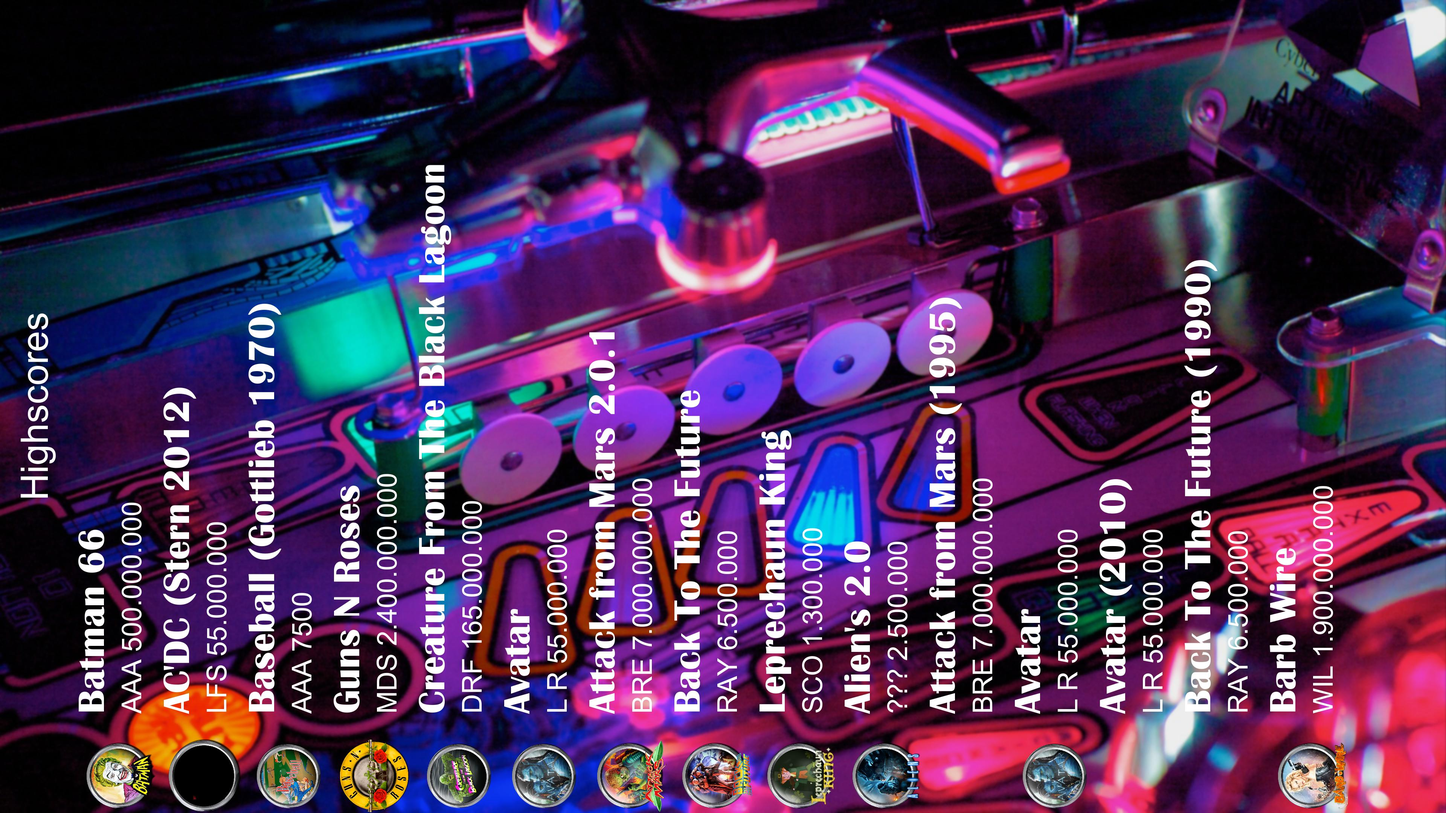
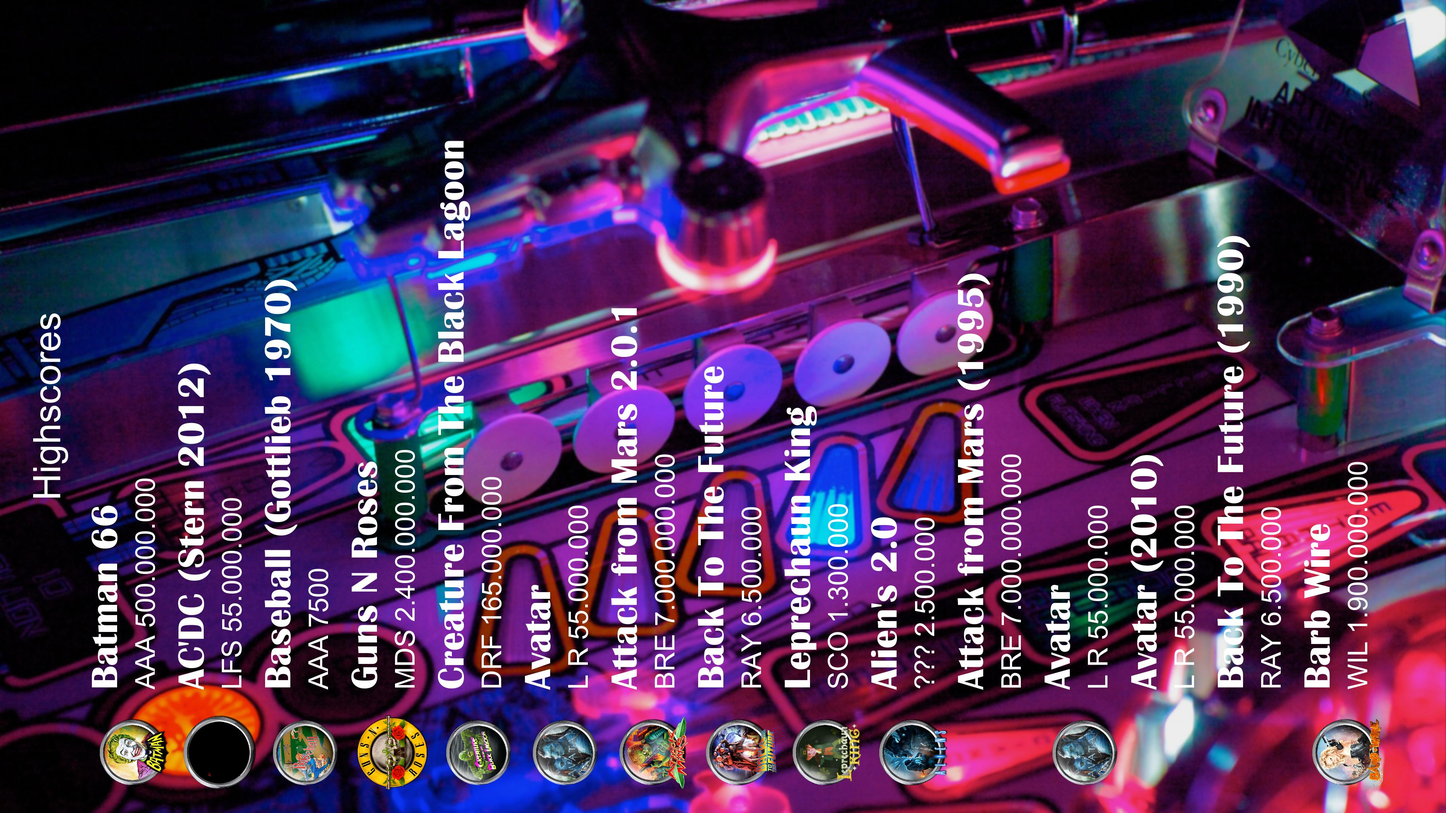
Overlay design

Changed region(s): [[0.0312, 0.1861, 0.9688, 1.0], [0.0, 0.3722, 0.0625, 0.6204]]

diff --git a/vpin-studio-server/src/main/java/de/mephisto/vpin/server/overlay/OverlayGraphics.java b/vpin-studio-server/src/main/java/de/mephisto/vpin/server/overlay/OverlayGraphics.java
@@ -2,13 +2,11 @@ package de.mephisto.vpin.server.overlay;
 
 import de.mephisto.vpin.server.games.Game;
 import de.mephisto.vpin.server.games.GameService;
-import de.mephisto.vpin.server.highscores.Highscore;
 import de.mephisto.vpin.server.highscores.HighscoreService;
 import de.mephisto.vpin.server.highscores.Score;
 import de.mephisto.vpin.server.popper.PopperScreen;
 import de.mephisto.vpin.server.util.Config;
 import de.mephisto.vpin.server.util.ImageUtil;
-import javafx.scene.text.FontPosture;
 import org.slf4j.Logger;
 import org.slf4j.LoggerFactory;
 
@@ -23,8 +21,7 @@ import java.util.stream.Collectors;
 public class OverlayGraphics {
   private final static Logger LOG = LoggerFactory.getLogger(OverlayGraphics.class);
 
-  private final String HIGHSCORE_TEXT = Config.getOverlayGeneratorConfig().getString("overlay.highscores.text", "Highscores");
-  private final String TITLE_TEXT = Config.getOverlayGeneratorConfig().getString("overlay.title.text", "bubu");
+  private final String TITLE_TEXT = Config.getOverlayGeneratorConfig().getString("overlay.title.text", "Highscores");
 
   private final String SCORE_FONT_NAME = Config.getOverlayGeneratorConfig().getString("overlay.score.font.name", "Arial");
   private final int SCORE_FONT_STYLE = ImageUtil.convertFontPosture(Config.getOverlayGeneratorConfig().getString("overlay.score.font.style"));
@@ -40,22 +37,20 @@ public class OverlayGraphics {
 
   private final int PADDING = Config.getOverlayGeneratorConfig().getInt("overlay.padding");
   private final int ROW_SEPARATOR = Config.getOverlayGeneratorConfig().getInt("overlay.highscores.row.separator");
-  private final int ROW_PADDING_LEFT = Config.getOverlayGeneratorConfig().getInt("overlay.highscores.row.padding.left");
   private final int ROW_HEIGHT = TABLE_FONT_SIZE + ROW_SEPARATOR + SCORE_FONT_SIZE;
 
   private final int BLUR_PIXELS = Config.getOverlayGeneratorConfig().getInt("overlay.blur");
 
   private final String BACKGROUND_IMAGE_NAME = Config.getOverlayGeneratorConfig().getString("overlay.background");
   private final String FONT_COLOR = Config.getOverlayGeneratorConfig().getString("overlay.font.color", "#FFFFFF");
+  private final String RESOLUTION = Config.getOverlayGeneratorConfig().getString("overlay.resolution", "2560x1440");
 
   private final OverlayService overlayService;
   private final GameService service;
-  private final HighscoreService highscoreService;
 
   public OverlayGraphics(OverlayService overlayService, GameService service, HighscoreService highscoreService) {
     this.overlayService = overlayService;
     this.service = service;
-    this.highscoreService = highscoreService;
   }
 
   public BufferedImage draw() throws Exception {
@@ -81,6 +76,11 @@ public class OverlayGraphics {
     }
 
     BufferedImage backgroundImage = ImageUtil.loadImage(sourceImage);
+    int targetWidth = Integer.parseInt(RESOLUTION.split("x")[0]);
+    if(backgroundImage.getWidth() > targetWidth) {
+      backgroundImage = ImageUtil.resizeImage(backgroundImage, targetWidth);
+    }
+
     BufferedImage rotated = ImageUtil.rotateRight(backgroundImage);
     if (BLUR_PIXELS > 0) {
       rotated = ImageUtil.blurImage(rotated, BLUR_PIXELS);
@@ -97,93 +97,14 @@ public class OverlayGraphics {
     return ImageUtil.rotateLeft(rotated);
   }
 
-  /**
-   * The upper section, usually with the three topscores.
-   */
-  private int renderTableChallenge(BufferedImage image, Game challengedGame) throws Exception {
-    Highscore highscore = highscoreService.getHighscore(challengedGame);
+  private void renderHighscoreList(BufferedImage image, int highscoreListYOffset) throws Exception {
     Graphics g = image.getGraphics();
     ImageUtil.setDefaultColor(g, FONT_COLOR);
     int imageWidth = image.getWidth();
-
-    g.setFont(new Font(TITLE_FONT_NAME, TITLE_FONT_STYLE, TITLE_FONT_SIZE));
-
-    String title = TITLE_TEXT;
-    int titleWidth = g.getFontMetrics().stringWidth(title);
-    int titleY = ROW_SEPARATOR + TITLE_FONT_SIZE + PADDING;
-    g.drawString(title, imageWidth / 2 - titleWidth / 2, titleY);
-
-    g.setFont(new Font(TABLE_FONT_NAME, TABLE_FONT_STYLE, TABLE_FONT_SIZE));
-    String challengedTable = challengedGame.getGameDisplayName();
-    int width = g.getFontMetrics().stringWidth(challengedTable);
-
-
-    int tableNameY = titleY + (2 * ROW_SEPARATOR) + TITLE_FONT_SIZE;
-    g.drawString(challengedTable, imageWidth / 2 - width / 2, tableNameY);
-
-    g.setFont(new Font(SCORE_FONT_NAME, SCORE_FONT_STYLE, SCORE_FONT_SIZE));
-
-    int count = 0;
-    int scoreWidth = 0;
-
-
-    List<String> scores = new ArrayList<>();
-    if (highscore != null) {
-//      for (Score score : highscore.toScores()) {
-//        String scoreString = score.getPosition() + ". " + score.getUserInitials() + " " + score.getScore();
-//        scores.add(scoreString);
-//
-//        int singleScoreWidth = g.getFontMetrics().stringWidth(scoreString);
-//        if (scoreWidth < singleScoreWidth) {
-//          scoreWidth = singleScoreWidth;
-//        }
-//        count++;
-//        if (count == 3) {
-//          break;
-//        }
-//      }
-    }
-    else {
-      for (int i = 1; i <= 3; i++) {
-        String scoreString = i + ". ??? 000.000.000";
-        int singleScoreWidth = g.getFontMetrics().stringWidth(scoreString);
-        if (scoreWidth < singleScoreWidth) {
-          scoreWidth = singleScoreWidth;
-        }
-        scores.add(scoreString);
-      }
-    }
-
-    int position = 0;
-    int wheelWidth = (3 * SCORE_FONT_SIZE) + (3 * ROW_SEPARATOR);
-    int totalScoreAndWheelWidth = scoreWidth + wheelWidth;
-
-    tableNameY = tableNameY + ROW_SEPARATOR;
-    for (String score : scores) {
-      position++;
-      int scoreY = tableNameY + (position * SCORE_FONT_SIZE) + (position * ROW_SEPARATOR);
-      g.drawString(score, imageWidth / 2 - totalScoreAndWheelWidth / 2 + wheelWidth + ROW_SEPARATOR, scoreY);
-    }
-
-    File wheelIconFile = challengedGame.getEmulator().getPinUPMedia(PopperScreen.Wheel);
-    int wheelY = tableNameY + ROW_SEPARATOR;
-
-    if (wheelIconFile != null && wheelIconFile.exists()) {
-      BufferedImage wheelImage = ImageIO.read(wheelIconFile);
-      g.drawImage(wheelImage, imageWidth / 2 - totalScoreAndWheelWidth / 2, wheelY, wheelWidth, wheelWidth, null);
-    }
-
-    return wheelY * 2 + SCORE_FONT_SIZE * 2;
-  }
-
-  private void renderHighscoreList(BufferedImage image, int highscoreListYOffset) throws Exception {
-    Graphics g = image.getGraphics();
-    ImageUtil.setDefaultColor(g, Config.getOverlayGeneratorConfig().getString("overlay.font.color"));
-    int imageWidth = image.getWidth();
     int imageHeight = image.getHeight();
 
-    g.setFont(new Font(TITLE_FONT_NAME, Font.PLAIN, TITLE_FONT_SIZE));
-    String text = HIGHSCORE_TEXT;
+    g.setFont(new Font(TITLE_FONT_NAME, TITLE_FONT_STYLE, TITLE_FONT_SIZE));
+    String text = TITLE_TEXT;
     int highscoreTextWidth = g.getFontMetrics().stringWidth(text);
 
     g.drawString(text, imageWidth / 2 - highscoreTextWidth / 2, highscoreListYOffset);
@@ -213,11 +134,11 @@ public class OverlayGraphics {
       LOG.info("Rendering row for table " + game + ", last played " + game.getLastPlayed());
       if (wheelIconFile != null && wheelIconFile.exists()) {
         BufferedImage wheelImage = ImageIO.read(wheelIconFile);
-        g.drawImage(wheelImage, ROW_PADDING_LEFT, yStart + 12, ROW_HEIGHT, ROW_HEIGHT, null);
+        g.drawImage(wheelImage, PADDING, yStart + 12, ROW_HEIGHT, ROW_HEIGHT, null);
       }
 
-      int x = ROW_HEIGHT + ROW_PADDING_LEFT + ROW_HEIGHT / 3;
-      g.setFont(new Font(TABLE_FONT_NAME, TABLE_FONT_SIZE, TABLE_FONT_SIZE));
+      int x = ROW_HEIGHT + PADDING + ROW_HEIGHT / 3;
+      g.setFont(new Font(TABLE_FONT_NAME, TABLE_FONT_STYLE, TABLE_FONT_SIZE));
       g.drawString(game.getGameDisplayName(), x, yStart + SCORE_FONT_SIZE);
 
       Score score = game.getScores().get(0);

diff --git a/vpin-studio-ui/src/main/java/de/mephisto/vpin/ui/util/MediaUtil.java b/vpin-studio-ui/src/main/java/de/mephisto/vpin/ui/util/MediaUtil.java
@@ -1,61 +1,37 @@
 package de.mephisto.vpin.ui.util;
 
-import de.mephisto.vpin.restclient.representations.GameRepresentation;
 import de.mephisto.vpin.ui.Studio;
 import javafx.application.Platform;
-import javafx.fxml.FXML;
 import javafx.scene.Cursor;
 import org.apache.commons.io.IOUtils;
 import org.slf4j.Logger;
 import org.slf4j.LoggerFactory;
 
 import java.awt.*;
-import java.io.ByteArrayInputStream;
 import java.io.File;
 import java.io.FileOutputStream;
 import java.io.IOException;
+import java.io.InputStream;
 
 public class MediaUtil {
   private final static Logger LOG = LoggerFactory.getLogger(MediaUtil.class);
 
-  public static void openDirectB2SBackground(GameRepresentation game) {
-    if (game != null) {
-      try {
-        Platform.runLater(() -> Studio.stage.getScene().setCursor(Cursor.WAIT));
-        ByteArrayInputStream s = Studio.client.getDirectB2SImage(game);
-        byte[] bytes = s.readAllBytes();
-        File png = File.createTempFile("vpin-studio-directb2s-", ".png");
-        png.deleteOnExit();
-        IOUtils.write(bytes, new FileOutputStream(png));
-        s.close();
+  public static void openMedia(InputStream in) {
+    try {
+      Platform.runLater(() -> Studio.stage.getScene().setCursor(Cursor.WAIT));
+      byte[] bytes = in.readAllBytes();
+      File png = File.createTempFile("vpin-media-", ".png");
+      png.deleteOnExit();
+      FileOutputStream fileOutputStream = new FileOutputStream(png);
+      IOUtils.write(bytes, fileOutputStream);
+      fileOutputStream.close();
+      in.close();
 
-        Desktop.getDesktop().open(png);
-      } catch (IOException e) {
-        LOG.error("Failed to create image temp file: " + e.getMessage(), e);
-      } finally {
-        Platform.runLater(() -> Studio.stage.getScene().setCursor(Cursor.DEFAULT));
-      }
-    }
-  }
-
-  @FXML
-  public static void openHighscoreSampleCard(GameRepresentation game) {
-    if (game != null) {
-      try {
-        Platform.runLater(() -> Studio.stage.getScene().setCursor(Cursor.WAIT));
-        ByteArrayInputStream s = Studio.client.getHighscoreCard(game);
-        byte[] bytes = s.readAllBytes();
-        File png = File.createTempFile("vpin-studio", ".png");
-        png.deleteOnExit();
-        IOUtils.write(bytes, new FileOutputStream(png));
-        s.close();
-
-        Desktop.getDesktop().open(png);
-      } catch (IOException e) {
-        LOG.error("Failed to create image temp file: " + e.getMessage(), e);
-      } finally {
-        Platform.runLater(() -> Studio.stage.getScene().setCursor(Cursor.DEFAULT));
-      }
+      Desktop.getDesktop().open(png);
+    } catch (IOException e) {
+      LOG.error("Failed to create image temp file: " + e.getMessage(), e);
+    } finally {
+      Platform.runLater(() -> Studio.stage.getScene().setCursor(Cursor.DEFAULT));
     }
   }
 }

diff --git a/vpin-studio-ui/src/main/java/de/mephisto/vpin/ui/overlay/OverlayController.java b/vpin-studio-ui/src/main/java/de/mephisto/vpin/ui/overlay/OverlayController.java
@@ -31,6 +31,7 @@ import org.apache.commons.lang3.StringUtils;
 import org.slf4j.Logger;
 import org.slf4j.LoggerFactory;
 
+import java.io.ByteArrayInputStream;
 import java.io.File;
 import java.io.IOException;
 import java.io.InputStream;
@@ -164,8 +165,8 @@ public class OverlayController implements Initializable, ObservedPropertyChangeL
 
   @FXML
   private void onOpenImage() {
-//    GameRepresentation game = tableCombo.getValue();
-//    MediaUtil.openHighscoreSampleCard(game);
+    InputStream image = client.getOverlayImage();
+    MediaUtil.openMedia(image);
   }
 
   @FXML
@@ -203,8 +204,8 @@ public class OverlayController implements Initializable, ObservedPropertyChangeL
 
     BindingUtil.bindColorPicker(fontColorSelector, properties, "overlay.font.color");
 
-    imageScalingCombo.setItems(FXCollections.observableList(Arrays.asList("1280", "1920", "2560", "3840")));
-    BindingUtil.bindComboBox(imageScalingCombo, properties, "overlay.screenSize", "2560");
+    imageScalingCombo.setItems(FXCollections.observableList(Arrays.asList("1280x720", "1920x1080", "2560x1440", "3840x2160")));
+    BindingUtil.bindComboBox(imageScalingCombo, properties, "overlay.resolution", "2.560x1.440");
 
     imageList = FXCollections.observableList(new ArrayList<>(client.getOverlayBackgrounds()));
     backgroundImageCombo.setItems(imageList);
@@ -243,16 +244,8 @@ public class OverlayController implements Initializable, ObservedPropertyChangeL
           Image image = new Image(input);
           overlayPreview.setImage(image);
           overlayPreview.setVisible(true);
-
-          int resolution = Integer.parseInt(imageScalingCombo.getValue());
-          if (image.getWidth() >= resolution && image.getWidth() < imageCenter.getWidth()) {
-            overlayPreview.setFitWidth(image.getHeight());
-            overlayPreview.setFitHeight(image.getWidth());
-          }
-          else {
-            overlayPreview.setFitWidth(imageCenter.getHeight() - offset);
-            overlayPreview.setFitHeight(imageCenter.getWidth() - offset);
-          }
+          overlayPreview.setFitWidth(imageCenter.getHeight() - offset);
+          overlayPreview.setFitHeight(imageCenter.getWidth() - offset);
 
           Platform.runLater(() -> {
             imageMetaDataLabel.setText("Resolution: " + (int) image.getWidth() + " x " + (int) image.getHeight());

diff --git a/vpin-studio-ui/src/main/java/de/mephisto/vpin/ui/cards/HighscoreCardsController.java b/vpin-studio-ui/src/main/java/de/mephisto/vpin/ui/cards/HighscoreCardsController.java
@@ -32,6 +32,7 @@ import org.kordamp.ikonli.javafx.FontIcon;
 import org.slf4j.Logger;
 import org.slf4j.LoggerFactory;
 
+import java.io.ByteArrayInputStream;
 import java.io.File;
 import java.io.IOException;
 import java.io.InputStream;
@@ -198,7 +199,10 @@ public class HighscoreCardsController implements Initializable, ObservedProperty
   @FXML
   private void onOpenImage() {
     GameRepresentation game = tableCombo.getValue();
-    MediaUtil.openHighscoreSampleCard(game);
+    if(game != null) {
+      ByteArrayInputStream s = Studio.client.getHighscoreCard(game);
+      MediaUtil.openMedia(s);
+    }
   }
 
   @FXML
@@ -243,7 +247,10 @@ public class HighscoreCardsController implements Initializable, ObservedProperty
   @FXML
   private void onOpenDirectB2SBackground() {
     GameRepresentation game = tableCombo.getValue();
-    MediaUtil.openDirectB2SBackground(game);
+    if(game != null) {
+      ByteArrayInputStream s = Studio.client.getDirectB2SImage(game);
+      MediaUtil.openMedia(s);
+    }
   }
 
   @FXML

diff --git a/vpin-studio-ui/src/main/java/de/mephisto/vpin/ui/tables/TablesController.java b/vpin-studio-ui/src/main/java/de/mephisto/vpin/ui/tables/TablesController.java
@@ -37,6 +37,7 @@ import org.kordamp.ikonli.javafx.FontIcon;
 import org.slf4j.Logger;
 import org.slf4j.LoggerFactory;
 
+import java.io.ByteArrayInputStream;
 import java.io.IOException;
 import java.net.URL;
 import java.util.*;
@@ -149,7 +150,10 @@ public class TablesController implements Initializable, StudioFXController {
   @FXML
   private void onOpenDirectB2SBackground() {
     GameRepresentation game = tableView.getSelectionModel().selectedItemProperty().get();
-    MediaUtil.openDirectB2SBackground(game);
+    if(game != null) {
+      ByteArrayInputStream s = client.getDirectB2SImage(game);
+      MediaUtil.openMedia(s);
+    }
   }
 
   @FXML

diff --git a/vpin-studio-ui/src/main/java/de/mephisto/vpin/ui/tables/TablesSidebarController.java b/vpin-studio-ui/src/main/java/de/mephisto/vpin/ui/tables/TablesSidebarController.java
@@ -30,6 +30,7 @@ import org.kordamp.ikonli.javafx.FontIcon;
 import org.slf4j.Logger;
 import org.slf4j.LoggerFactory;
 
+import java.io.ByteArrayInputStream;
 import java.io.IOException;
 import java.io.InputStream;
 import java.net.URL;
@@ -226,7 +227,10 @@ public class TablesSidebarController implements Initializable, StudioFXControlle
 
   @FXML
   private void onOpenDirectB2SBackground() {
-    MediaUtil.openDirectB2SBackground(game.get());
+    if(game.isPresent()) {
+      ByteArrayInputStream image = client.getDirectB2SImage(game.get());
+      MediaUtil.openMedia(image);
+    }
   }
 
   @FXML
